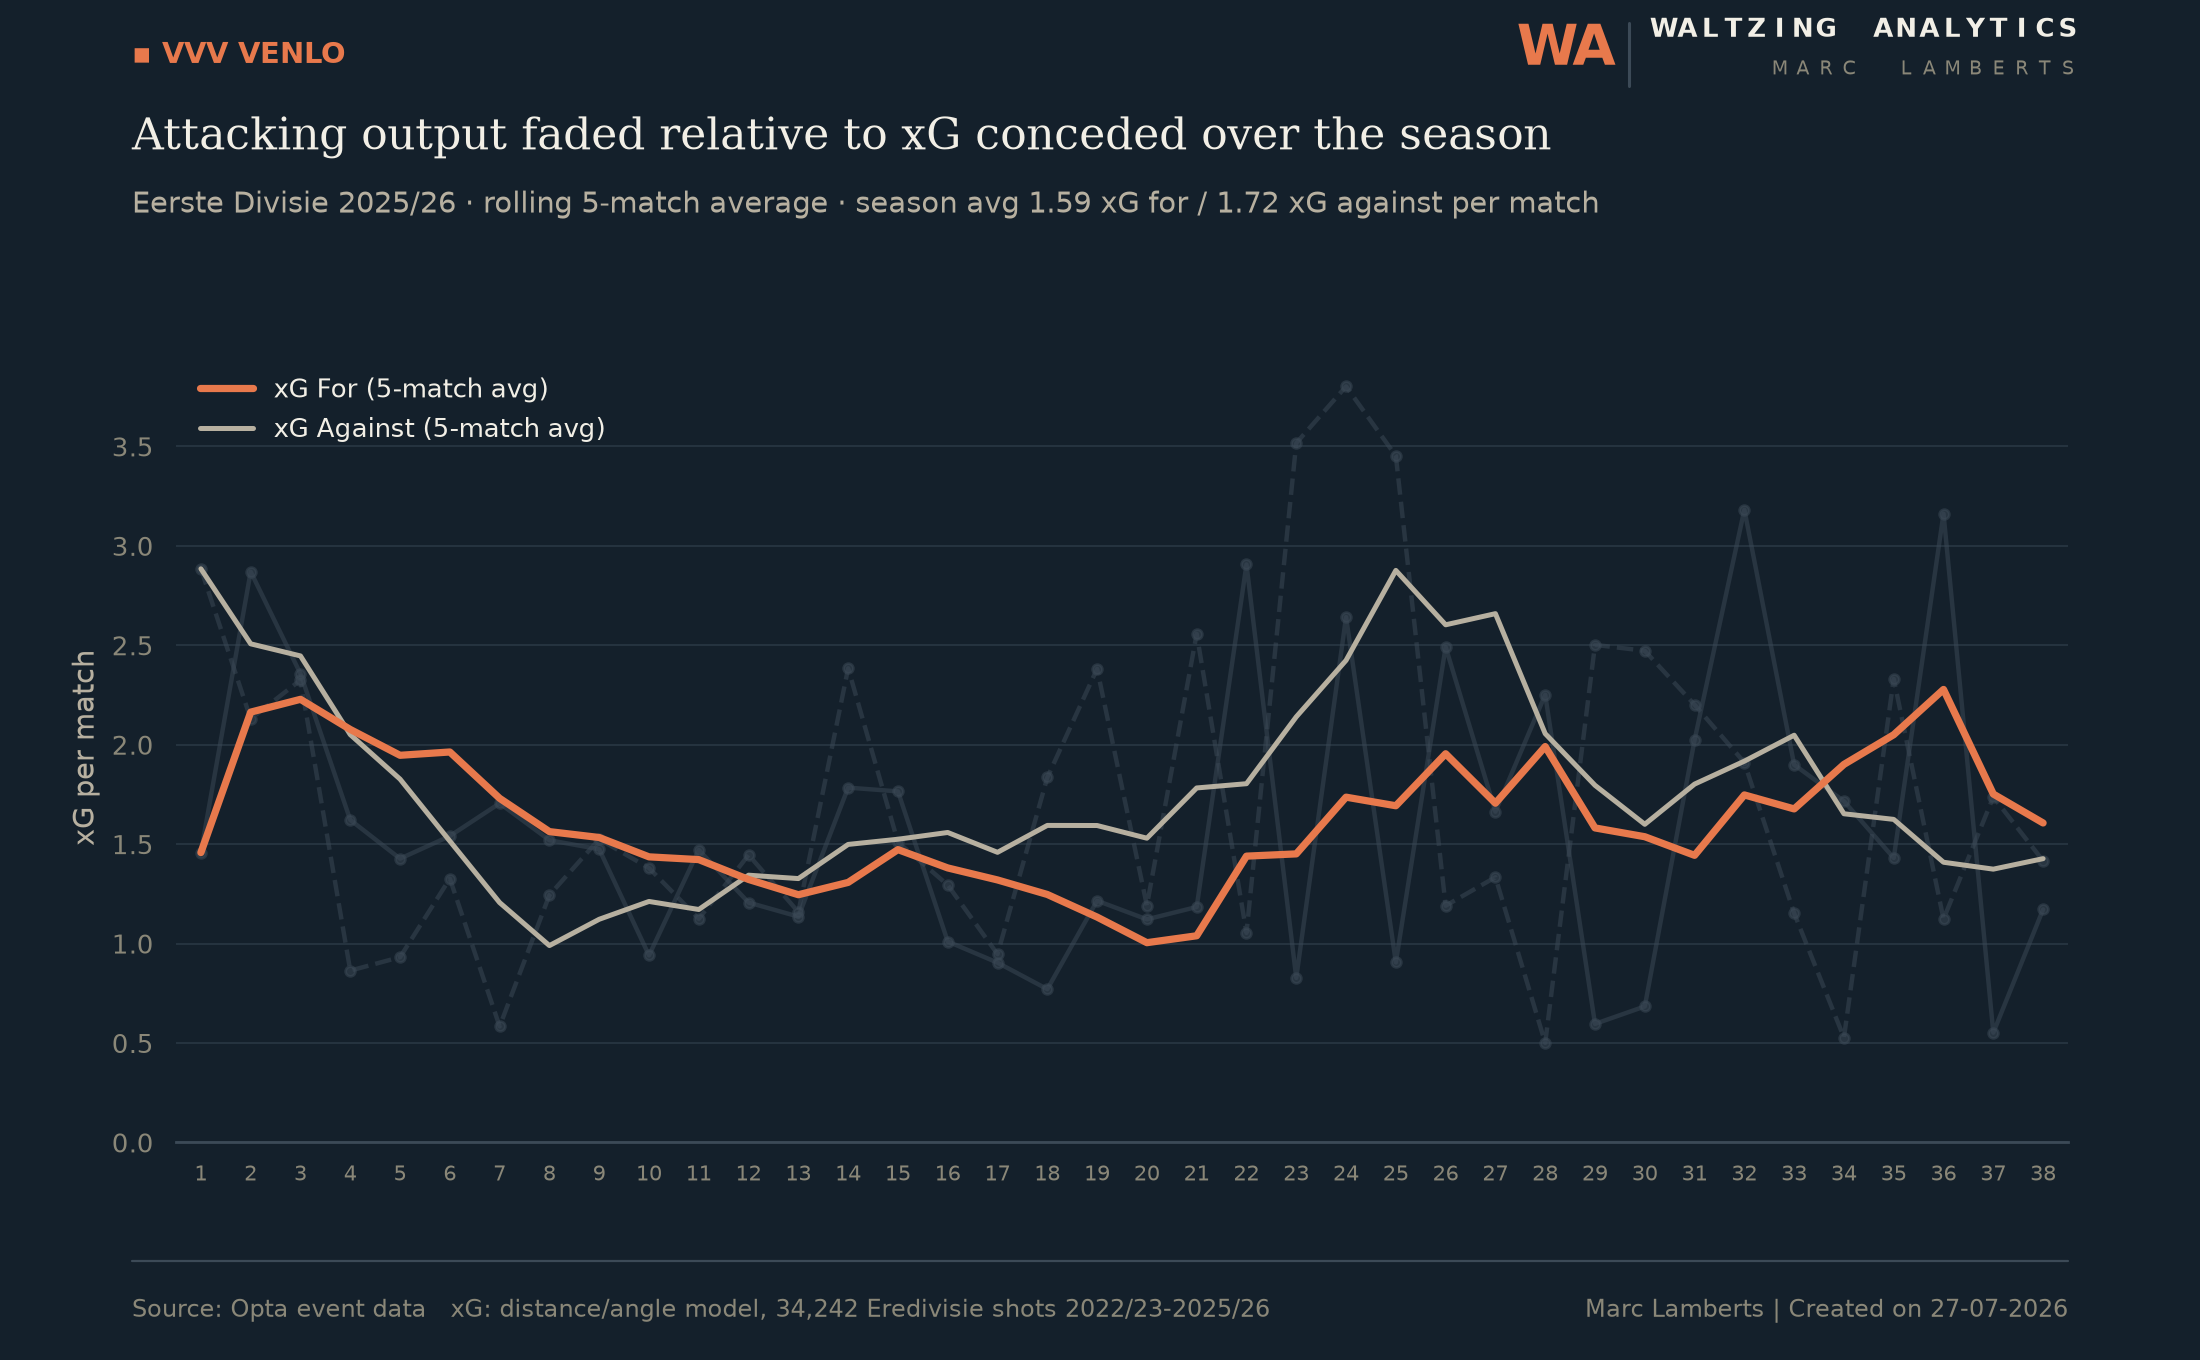
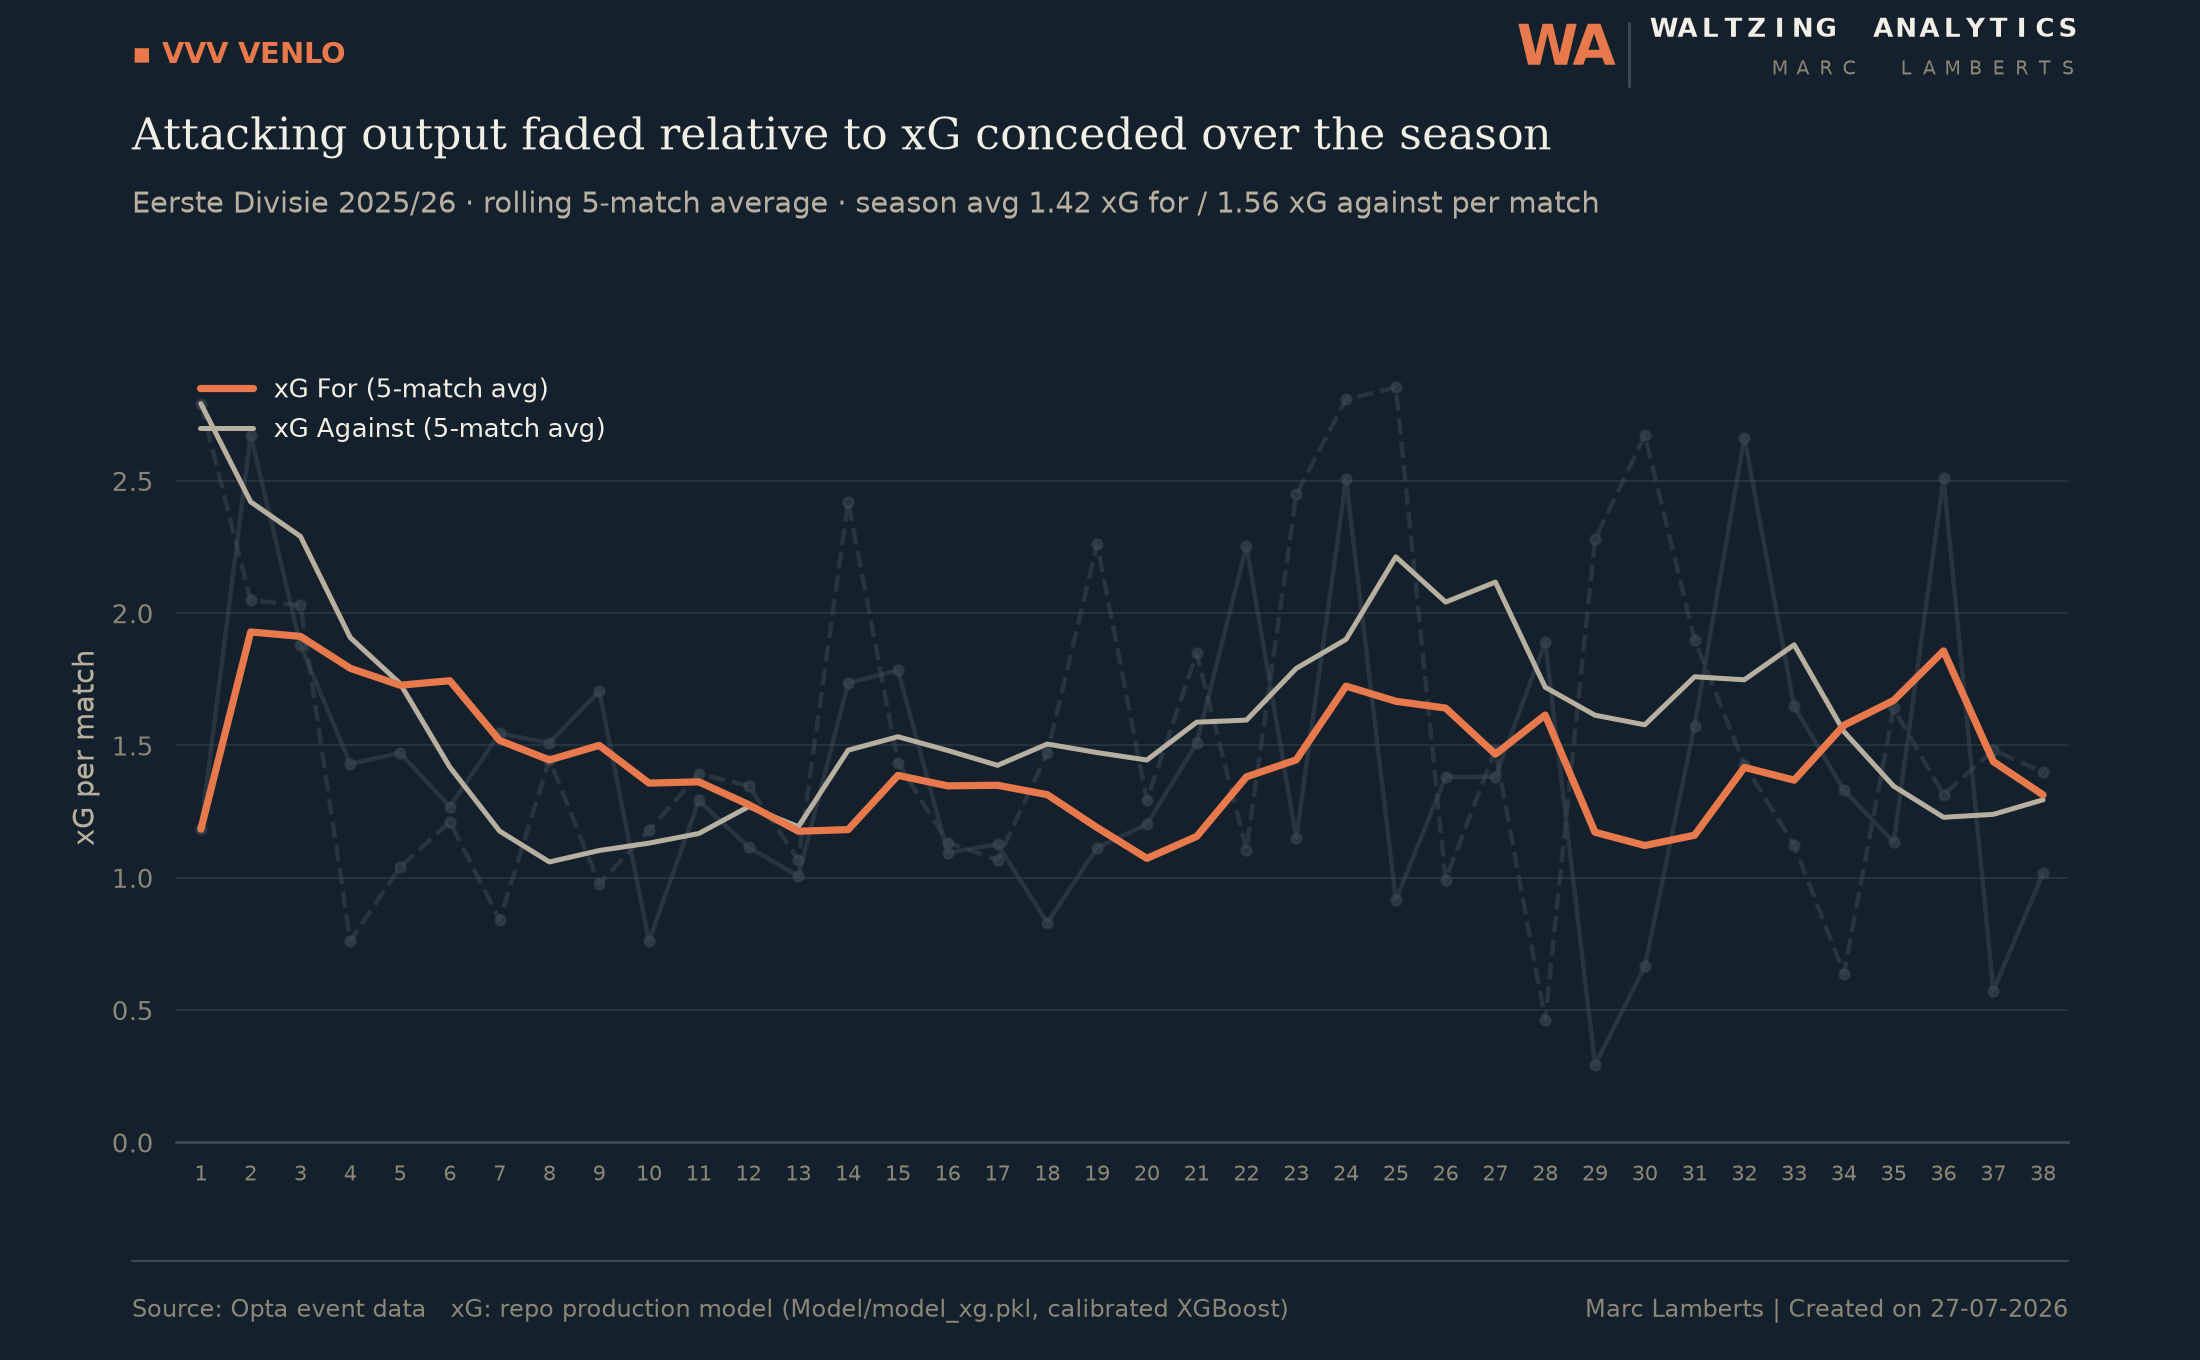
Use the repo's production xG model instead of an inferred one
Replaces the ad-hoc distance/angle logistic regression with
Model/model_xg.pkl (CalibratedXGB: XGBClassifier + isotonic calibration)
and Model/model_meta.pkl for the exact feature/qualifier spec, so xG for
ADO Den Haag and VVV Venlo comes from the same model used elsewhere in
the repo rather than a model trained ad hoc for this chart.

Claude-Session: https://claude.ai/code/session_01YHDrhDtsB4Wjq4rsQH33mJ

diff --git a/Scripts/ado_den_haag_xg_trend.py b/Scripts/ado_den_haag_xg_trend.py
@@ -2,15 +2,17 @@
 xG For vs xG Against by match for a given Eerste Divisie 2025/26 team,
 with a rolling-average trend line for each.
 
-xG per shot comes from a distance/angle logistic regression fitted on
-~34k shots across four Eredivisie seasons (2022/23-2025/26, see
-train_xg_model() below) -- the Eerste Divisie itself has no pre-existing
-shot-xg model in this repo, so this fits a simple, standard geometry-based
-model and applies it to the team's Eerste Divisie shots. Penalties are
-assigned the empirical penalty conversion rate instead of the geometry
-model (all penalties share the same distance/angle, so the regression
-would otherwise blend them into ordinary open-play shots). Own goals are
-excluded from shot xG entirely, in line with standard practice.
+xG per shot comes from the repo's own pre-trained production model
+(Model/model_xg.pkl + Model/model_meta.pkl) -- a calibrated XGBoost
+classifier (CalibratedXGB = XGBClassifier + IsotonicRegression calibrator)
+fit on distance/angle/y_sym plus qualifier-derived shot context (body
+part, phase of play, assist type). No model is trained or inferred here;
+this script only rebuilds the exact 18 features the pickled model expects
+(per model_meta.pkl's qualifier_mapping) and calls it. Penalties use the
+model's own fixed pen_xg from the metadata rather than the classifier
+(all penalties share the same distance/angle/y_sym, so the classifier
+was not trained to discriminate among them). Own goals are excluded from
+shot xG entirely, in line with standard practice.
 
 Usage: python3 ado_den_haag_xg_trend.py ["HFC ADO Den Haag"] [out.png]
 Team name must match the filename spelling, e.g. "VVV Venlo", "SV Roda JC".
@@ -20,29 +22,48 @@ import json
 import math
 import re
 import sys
+import warnings
 from pathlib import Path
 
+import joblib
 import numpy as np
 import pandas as pd
-from sklearn.linear_model import LogisticRegression
 import matplotlib.pyplot as plt
 
 sys.path.insert(0, str(Path(__file__).resolve().parent.parent))
 from housestyle import style, components
 
 REPO_ROOT = Path(__file__).resolve().parent.parent
-EREDIVISIE_DIR = REPO_ROOT / "Eredivisie Events"
+MODEL_DIR = REPO_ROOT / "Model"
 EERSTE_DIVISIE_DIR = REPO_ROOT / "Eerste Divisie Events" / "Eerste Divisie 2025-2026"
 ROLL_WINDOW = 5
 
 SHOT_TYPES = {13, 14, 15, 16}
-PENALTY_QID = 9
 OWN_GOAL_QID = 28
-HEAD_QID = 15
 
 PITCH_LENGTH = 105.0
 PITCH_WIDTH = 68.0
 GOAL_WIDTH = 7.32
+
+
+class CalibratedXGB:
+    """Stub matching the pickled class's attribute layout (clf, iso) so
+    joblib.load can restore it -- no training logic, just the shape the
+    original object was saved with."""
+
+    def predict_proba(self, X):
+        raw = self.clf.predict_proba(X)[:, 1]
+        return self.iso.predict(raw)
+
+
+def load_xg_model():
+    import __main__
+    __main__.CalibratedXGB = CalibratedXGB
+    with warnings.catch_warnings():
+        warnings.simplefilter("ignore")
+        model = joblib.load(MODEL_DIR / "model_xg.pkl")
+    meta = joblib.load(MODEL_DIR / "model_meta.pkl")
+    return model, meta
 
 
 def qmap(e):
@@ -60,12 +81,13 @@ def shot_geometry(x, y):
     cos_val = (d1 ** 2 + d2 ** 2 - GOAL_WIDTH ** 2) / (2 * d1 * d2)
     cos_val = max(-1.0, min(1.0, cos_val))
     angle = math.acos(cos_val)
-    return distance, angle
+    y_sym = abs(y_m - PITCH_WIDTH / 2)
+    return distance, angle, y_sym
 
 
-def extract_shots(files):
+def extract_shots(files, qm):
     """All shots (own goals excluded) from a list of match json files,
-    tagged with distance/angle/header/penalty/is_goal."""
+    with the exact feature set model_xg.pkl was trained on."""
     rows = []
     for fn in files:
         with open(fn) as f:
@@ -79,41 +101,39 @@ def extract_shots(files):
             x, y = e.get("x"), e.get("y")
             if x is None or y is None:
                 continue
-            distance, angle = shot_geometry(x, y)
+            distance, angle, y_sym = shot_geometry(x, y)
             rows.append({
                 "match_file": fn, "contestant_id": e.get("contestantId"),
-                "distance": distance, "angle": angle,
-                "is_header": 1 if HEAD_QID in q else 0,
-                "is_penalty": 1 if PENALTY_QID in q else 0,
+                "distance": distance, "angle": angle, "y_sym": y_sym,
+                "is_header": int(qm["HEADER"] in q),
+                "is_right_foot": int(qm["RIGHT_FOOT"] in q),
+                "is_left_foot": int(qm["LEFT_FOOT"] in q),
+                "is_other_body_part": int(qm["OTHER_BODY_PART"] in q),
+                "is_volley": int(qm["VOLLEY"] in q),
+                "is_one_on_one": int(qm["ONE_ON_ONE"] in q),
+                "is_fast_break": int(qm["FAST_BREAK"] in q),
+                "is_from_corner": int(qm["FROM_CORNER"] in q),
+                "is_free_kick": int(qm["DIRECT_FREE_KICK"] in q),
+                "is_set_piece": int(qm["SET_PIECE"] in q),
+                "is_throw_in_set_piece": int(qm["THROW_IN_SET_PIECE"] in q),
+                "is_open_play": int(qm["REGULAR_PLAY"] in q),
+                "is_assisted": int(qm["ASSISTED"] in q),
+                "is_intentional_assist": int(qm["INTENTIONAL_ASSIST"] in q),
+                "is_individual_play": int(qm["INDIVIDUAL_PLAY"] in q),
+                "is_penalty": int(qm["PENALTY"] in q),
                 "is_goal": 1 if e.get("typeId") == 16 else 0,
             })
     return pd.DataFrame(rows)
 
 
-def train_xg_model():
-    files = sorted(glob.glob(f"{EREDIVISIE_DIR}/[0-9][0-9][0-9][0-9]-[0-9][0-9][0-9][0-9]/*.json"))
-    print(f"Training xG model on {len(files)} Eredivisie matches...")
-    df = extract_shots(files)
-    open_play = df[df["is_penalty"] == 0]
-    print(f"  {len(df)} shots total, {len(open_play)} non-penalty for model fit")
-
-    clf = LogisticRegression()
-    X = open_play[["distance", "angle", "is_header"]].values
-    y = open_play["is_goal"].values
-    clf.fit(X, y)
-
-    penalties = df[df["is_penalty"] == 1]
-    penalty_xg = float(penalties["is_goal"].mean()) if len(penalties) else 0.76
-    print(f"  penalty conversion rate (n={len(penalties)}): {penalty_xg:.3f}")
-    return clf, penalty_xg, len(df)
-
-
-def score_shots(df, clf, penalty_xg):
+def score_shots(df, model, meta):
+    feature_cols = meta["features"]
     xg = np.zeros(len(df))
     is_pen = df["is_penalty"].values == 1
     if (~is_pen).any():
-        xg[~is_pen] = clf.predict_proba(df.loc[~is_pen, ["distance", "angle", "is_header"]].values)[:, 1]
-    xg[is_pen] = penalty_xg
+        X = df.loc[~is_pen, feature_cols]
+        xg[~is_pen] = model.predict_proba(X)
+    xg[is_pen] = meta["pen_xg"]
     return xg
 
 
@@ -153,7 +173,7 @@ def rolling_mean(values, window):
     return out
 
 
-def collect_match_rows(clf, penalty_xg, team_name):
+def collect_match_rows(model, meta, qm, team_name):
     files = sorted(glob.glob(f"{EERSTE_DIVISIE_DIR}/*.json"))
     team_to_cid = build_team_map(files)
     if team_name not in team_to_cid:
@@ -168,10 +188,10 @@ def collect_match_rows(clf, penalty_xg, team_name):
         date, home, away = m.group(1), m.group(2), m.group(3)
         if team_name not in (home, away):
             continue
-        shots = extract_shots([fn])
+        shots = extract_shots([fn], qm)
         if shots.empty:
             continue
-        shots["xg"] = score_shots(shots, clf, penalty_xg)
+        shots["xg"] = score_shots(shots, model, meta)
         xg_for = shots.loc[shots["contestant_id"] == cid, "xg"].sum()
         xg_against = shots.loc[shots["contestant_id"] != cid, "xg"].sum()
         rows.append({
@@ -183,7 +203,7 @@ def collect_match_rows(clf, penalty_xg, team_name):
     return rows
 
 
-def make_plot(rows, out_path, n_train_shots, team_name):
+def make_plot(rows, out_path, team_name):
     n = len(rows)
     xs = list(range(1, n + 1))
     xgf = [r["xg_for"] for r in rows]
@@ -230,7 +250,7 @@ def make_plot(rows, out_path, n_train_shots, team_name):
     components.footer(
         fig,
         source="Opta event data",
-        note=f"xG: distance/angle model, {n_train_shots:,} Eredivisie shots 2022/23-2025/26",
+        note="xG: repo production model (Model/model_xg.pkl, calibrated XGBoost)",
         palette=palette,
     )
 
@@ -243,9 +263,11 @@ if __name__ == "__main__":
     team_name = sys.argv[1] if len(sys.argv) > 1 else "HFC ADO Den Haag"
     default_out = REPO_ROOT / "Eerste Divisie Events" / f"{team_name.lower().replace(' ', '_')}_xg_trend.png"
     out = sys.argv[2] if len(sys.argv) > 2 else str(default_out)
-    clf, penalty_xg, n_train_shots = train_xg_model()
-    rows = collect_match_rows(clf, penalty_xg, team_name)
+
+    model, meta = load_xg_model()
+    qm = meta["qualifier_mapping"]
+    rows = collect_match_rows(model, meta, qm, team_name)
     if not rows:
         print("No matches found for", team_name)
         sys.exit(1)
-    make_plot(rows, out, n_train_shots, team_name)
+    make_plot(rows, out, team_name)
